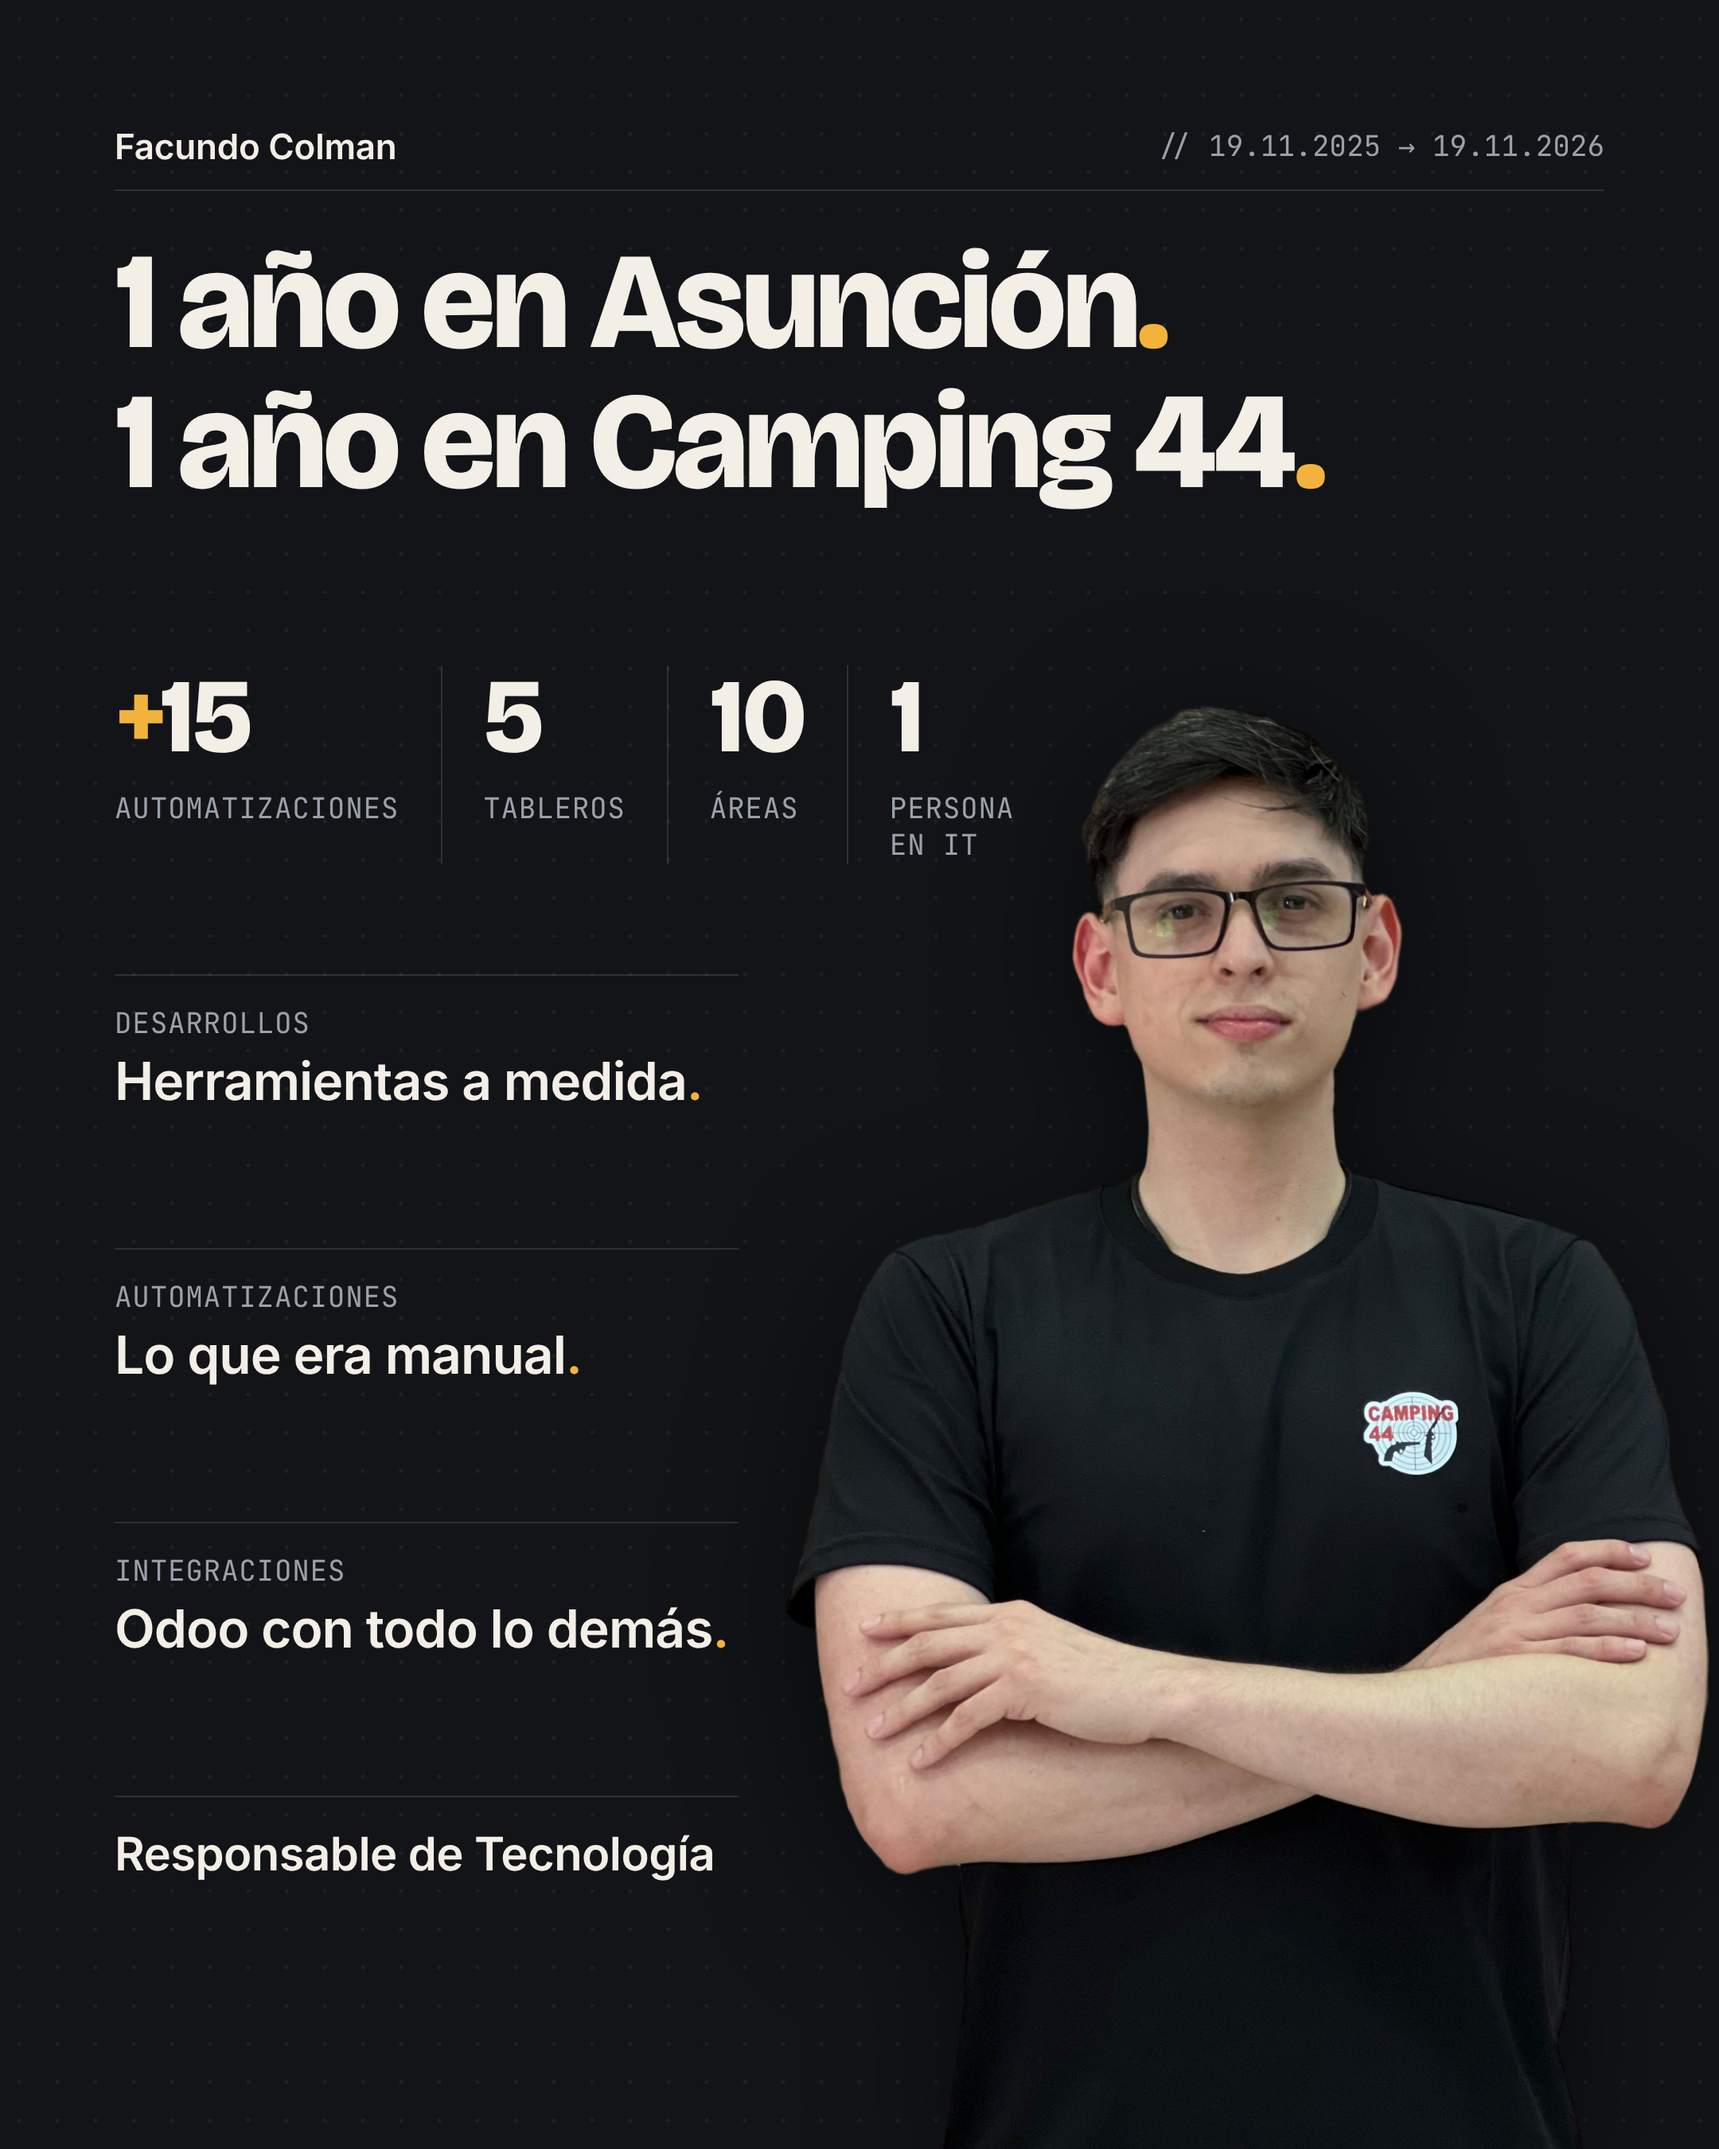
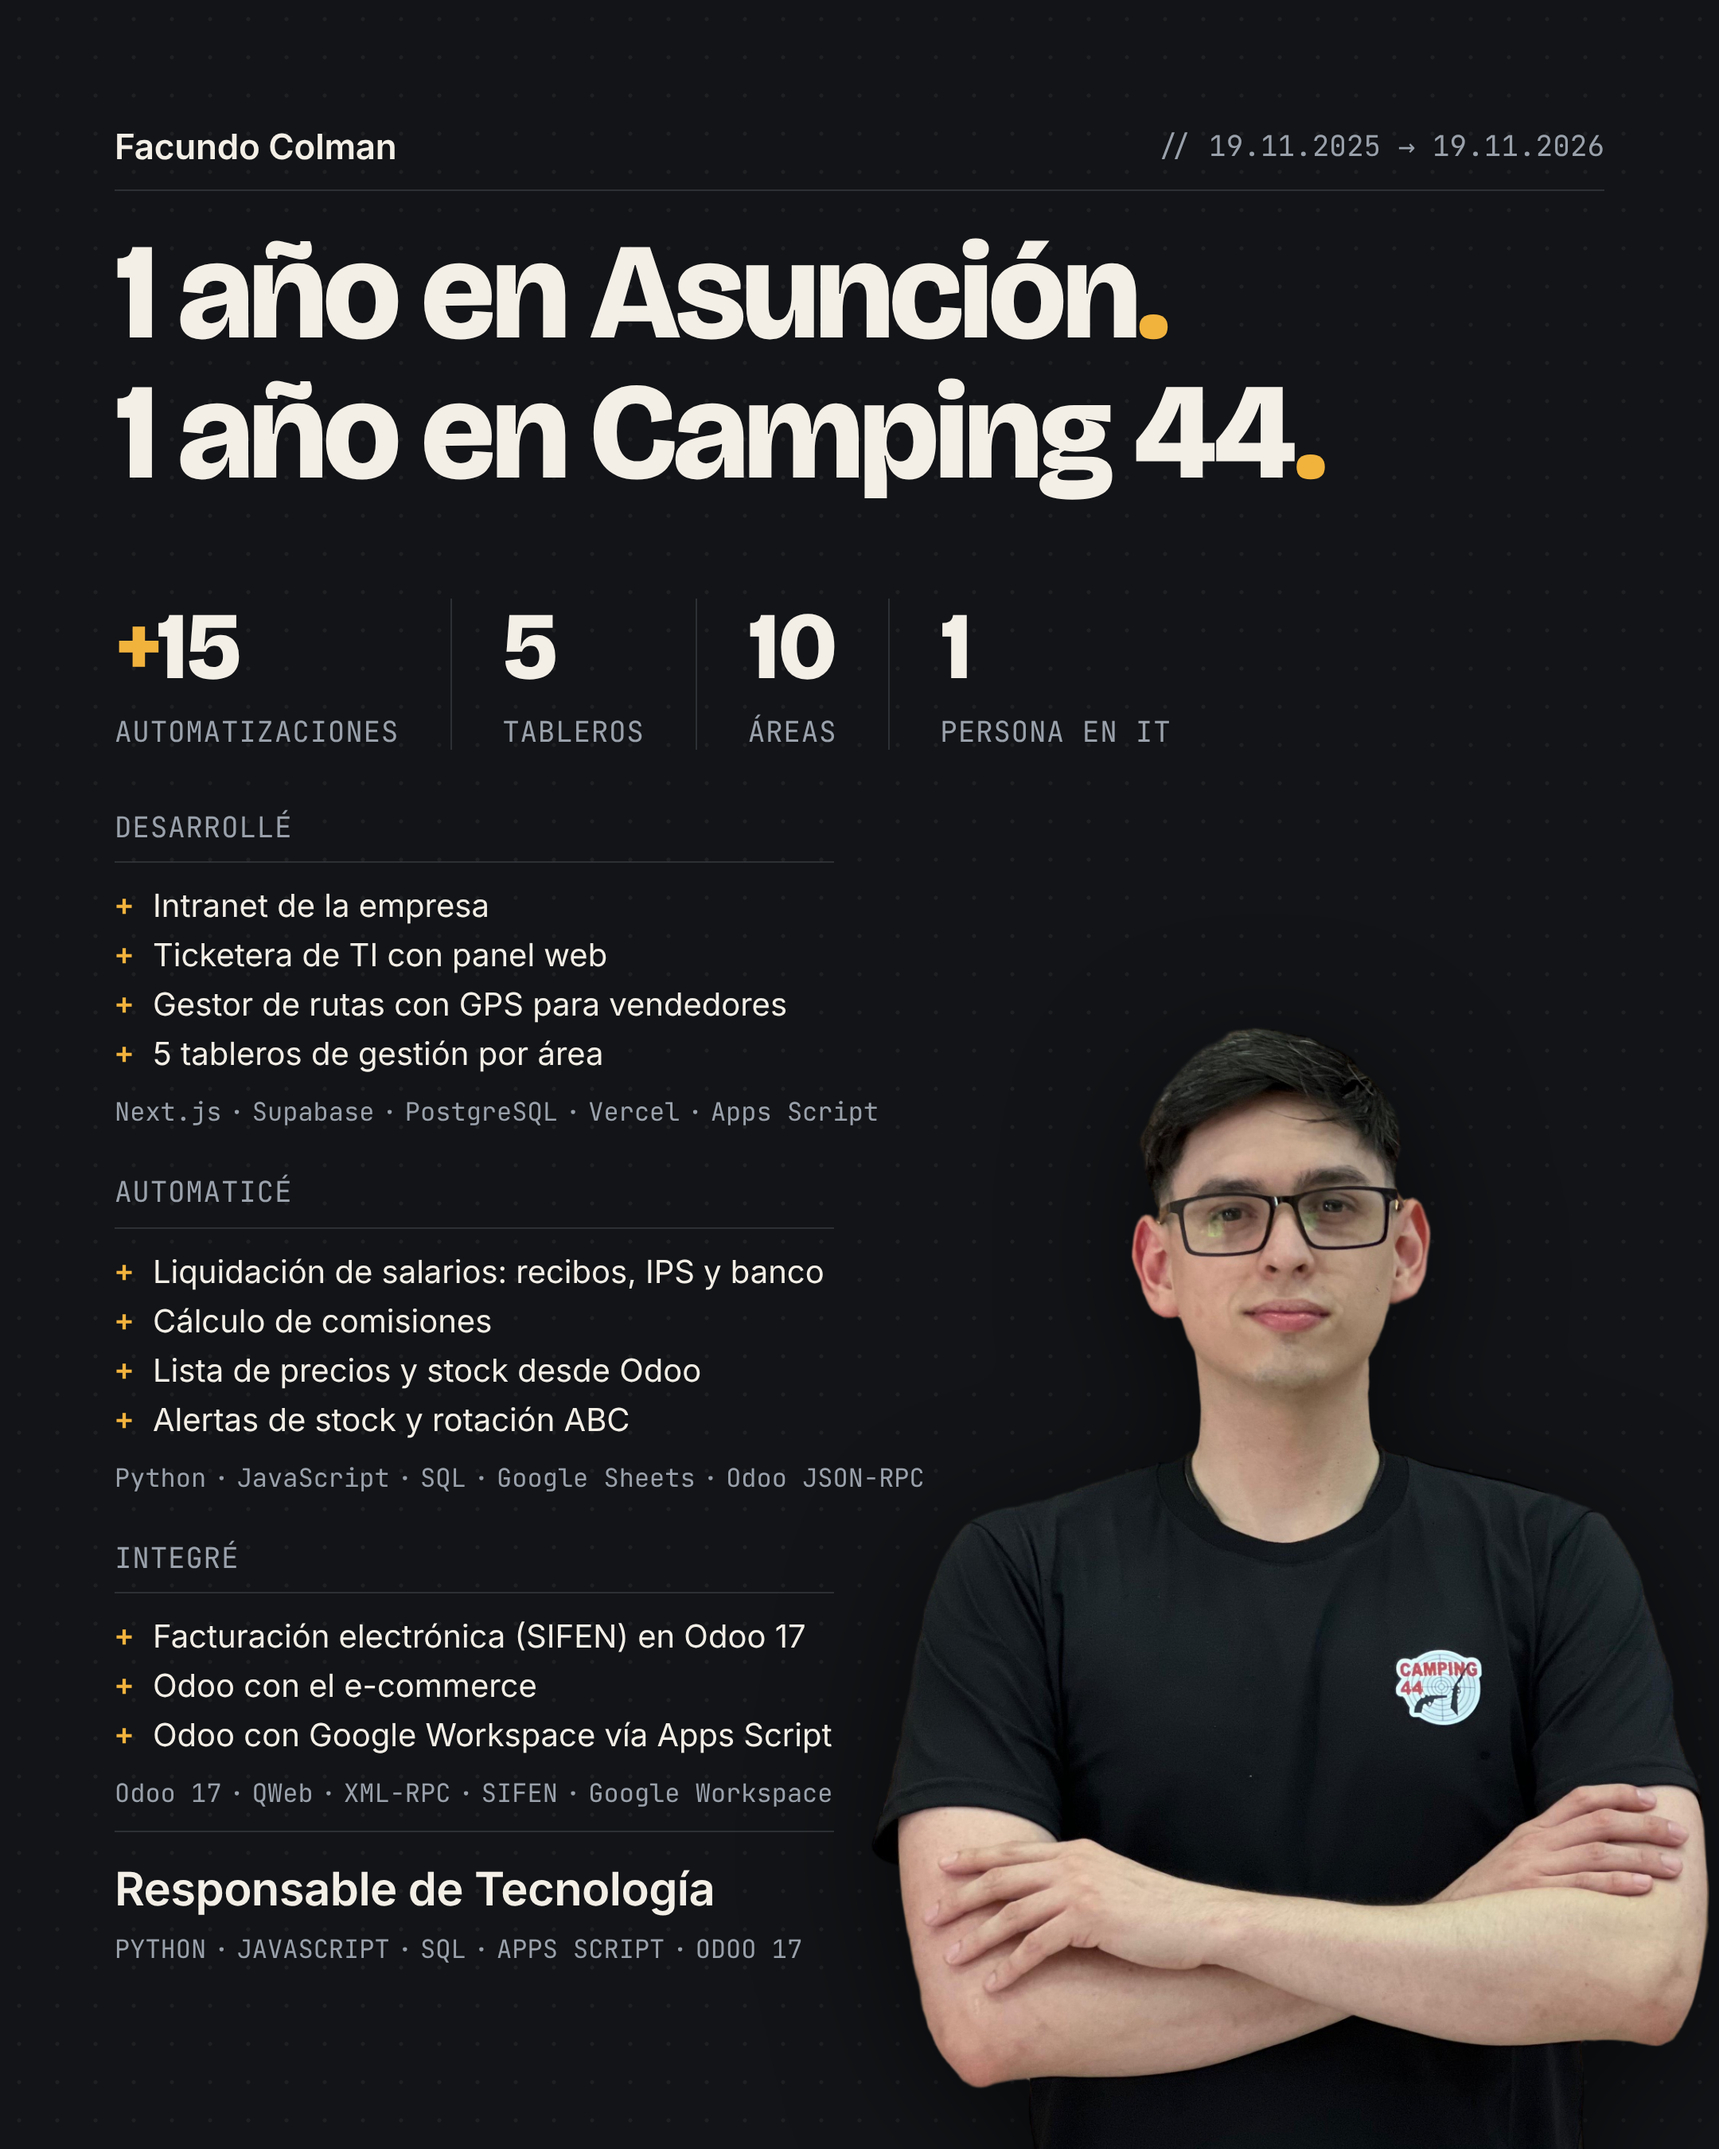
Post LinkedIn: vuelve a la versión detallada, sin la bajada del pie
Claude-Session: https://claude.ai/code/session_01QmKcF7XnkXzDbM9dM3Boey

diff --git a/src/build.js b/src/build.js
@@ -11,21 +11,42 @@ const OUT = path.join(SRC, '..', 'output');
 const C = { ivory: '#F3EEE6', gray: '#9AA1AB', gold: '#F2B33D', bg: '#121417',
             box: 'rgba(154,161,171,0.42)' };
 
-// Tres frases generales: se leen de un vistazo en el feed (el detalle va en el texto del post)
-const STATEMENTS = [
-  ['Desarrollos', 'Herramientas a medida'],
-  ['Automatizaciones', 'Lo que era manual'],
-  ['Integraciones', 'Odoo con todo lo demás'],
+const GROUPS = [
+  ['Desarrollé', ['Next.js', 'Supabase', 'PostgreSQL', 'Vercel', 'Apps Script'], [
+    'Intranet de la empresa',
+    'Ticketera de TI con panel web',
+    'Gestor de rutas con GPS para vendedores',
+    '5 tableros de gestión por área',
+  ]],
+  ['Automaticé', ['Python', 'JavaScript', 'SQL', 'Google Sheets', 'Odoo JSON-RPC'], [
+    'Liquidación de salarios: recibos, IPS y banco',
+    'Cálculo de comisiones',
+    'Lista de precios y stock desde Odoo',
+    'Alertas de stock y rotación ABC',
+  ]],
+  ['Integré', ['Odoo 17', 'QWeb', 'XML-RPC', 'SIFEN', 'Google Workspace'], [
+    'Facturación electrónica (SIFEN) en Odoo 17',
+    'Odoo con el e-commerce',
+    'Odoo con Google Workspace vía Apps Script',
+  ]],
 ];
 
 // Posiciones verticales (px CSS) de cada bloque
-const L = { stats: 418, statements: 612, footer: 1128 };
+const FOOTER_TECH = ['PYTHON', 'JAVASCRIPT', 'SQL', 'APPS SCRIPT', 'ODOO 17'];
+
+const L = { stats: 376, groups: 508, footer: 1150 };
+
+// Línea de tecnologías: palabras separadas por " · "
+const tech = words => `<div class="tech">${words.join('<span class="sep"> · </span>')}</div>`;
 
 function page() {
-  const statements = STATEMENTS.map(([verb, text]) => `
-    <div class="statement">
-      <div class="label">${verb}</div>
-      <div class="phrase">${text}<span class="dot">.</span></div>
+  const groups = GROUPS.map(([title, stack, items]) => `
+    <div class="group">
+      <div class="section-head"><span class="label">${title}</span></div>
+      <ul class="notes">
+        ${items.map(t => `<li><span class="plus">+</span>${t}</li>`).join('\n        ')}
+      </ul>
+      ${tech(stack)}
     </div>`).join('');
   return `<!doctype html>
 <html lang="es">
@@ -53,14 +74,15 @@ function page() {
     <div class="stat"><div class="num"><span class="dot">+</span>15</div><div class="label">Automatizaciones</div></div>
     <div class="stat"><div class="num">5</div><div class="label">Tableros</div></div>
     <div class="stat"><div class="num">10</div><div class="label">Áreas</div></div>
-    <div class="stat"><div class="num">1</div><div class="label">Persona<br>en IT</div></div>
+    <div class="stat"><div class="num">1</div><div class="label">Persona en IT</div></div>
   </section>
 
-  <section class="content statements" style="top:${L.statements}px">${statements}
+  <section class="content groups" style="top:${L.groups}px">${groups}
   </section>
 
   <footer class="footer" style="top:${L.footer}px">
     <div class="role">Responsable de Tecnología</div>
+    ${tech(FOOTER_TECH)}
   </footer>
 
 </main>
@@ -87,11 +109,11 @@ function page() {
   // --- Verificación: aire entre cada texto/caja y la silueta de la foto ---
   const info = await p.evaluate(() => {
     const img = document.querySelector('.photo').getBoundingClientRect();
-    const els = [...document.querySelectorAll('.content .num, .content .label, .phrase, .statement, .footer .role, .footer .tag, .footer')];
+    const els = [...document.querySelectorAll('.content .num, .content .label, .notes li, .tech, .section-head, .footer .role, .footer .tag, .footer')];
     const boxes = els.map(e => {
       let r = e.getBoundingClientRect();
       // para bloques de texto, medir el ancho real del texto (no el del contenedor)
-      if (e.classList.contains('phrase') || e.classList.contains('role') || e.classList.contains('tag')) {
+      if (e.tagName === 'LI' || e.classList.contains('role') || e.classList.contains('tag') || e.classList.contains('tech')) {
         const range = document.createRange(); range.selectNodeContents(e); r = range.getBoundingClientRect();
       }
       return { name: (e.textContent || e.tagName).trim().slice(0, 40) || e.tagName, x0: r.left, x1: r.right, y0: r.top, y1: r.bottom };

diff --git a/src/styles.css b/src/styles.css
@@ -7,7 +7,7 @@
   --rule: rgba(154, 161, 171, 0.20);   /* divisorias: gris al 20% */
   --box: rgba(154, 161, 171, 0.42);    /* bordes de cajas y conectores */
   --margin: 72px;
-  --col: 392px;                         /* columna de contenido: 72 → 464 */
+  --col: 452px;                         /* columna de contenido: 72 → 524 */
 }
 
 * { box-sizing: border-box; margin: 0; padding: 0; }
@@ -43,7 +43,7 @@ html, body { width: 1080px; height: 1350px; background: var(--bg); }
 /* ---------- Título ---------- */
 .title {
   position: absolute;
-  top: 146px; left: var(--margin);
+  top: 140px; left: var(--margin);
   font-family: "Bricolage Grotesque", sans-serif;
   font-weight: 800;
   font-size: 86px;
@@ -57,8 +57,8 @@ html, body { width: 1080px; height: 1350px; background: var(--bg); }
 /* ---------- Foto ---------- */
 .photo {
   position: absolute;
-  right: 6px; bottom: 0;              /* codos completos dentro del cuadro */
-  width: 581px;                        /* grande: cabeza a la altura de la fila de números */
+  right: 6px; bottom: -118px;         /* mismo tamaño; corre hacia abajo para dejar aire a las líneas técnicas (codos siguen dentro) */
+  width: 527px;                        /* máximo que deja ~30 px de aire con los ítems más largos */
   height: auto;
   filter: drop-shadow(0 18px 40px rgba(0, 0, 0, 0.55));
 }
@@ -81,35 +81,54 @@ html, body { width: 1080px; height: 1350px; background: var(--bg); }
 
 /* Datos */
 .stats { display: grid; grid-template-columns: repeat(4, auto); justify-content: start; width: auto; }
-.stat { padding: 0 26px; border-left: 1px solid var(--rule); }
+.stat { padding: 0 32px; border-left: 1px solid var(--rule); }
 .stat .label { white-space: nowrap; }
 .stat:first-child { padding-left: 0; border-left: 0; }
 .stat .num .dot { color: var(--gold); }
 .stat .num {
   font-family: "Bricolage Grotesque", sans-serif;
   font-weight: 800;
-  font-size: 66px;
+  font-size: 60px;
   line-height: 1;
   letter-spacing: -0.02em;
   color: var(--ivory);
   margin-bottom: 12px;
 }
 
-/* Frases: verbo en mono + frase corta grande */
-.statements { display: flex; flex-direction: column; gap: 84px; }
-.statement { padding-top: 18px; border-top: 1px solid var(--rule); }
-.phrase {
-  margin-top: 6px;
-  font-weight: 600;
-  font-size: 33px;
-  line-height: 1.2;
-  letter-spacing: -0.015em;
+.section-head {
+  display: flex; justify-content: space-between; align-items: baseline;
+  padding-bottom: 10px;
+  border-bottom: 1px solid var(--rule);
+  margin-bottom: 12px;
+}
+
+/* Grupos: Desarrollé / Automaticé / Integré */
+.groups { display: flex; flex-direction: column; gap: 28px; }
+.notes { list-style: none; }
+.notes li {
+  display: flex; align-items: baseline;
+  font-size: 20px; line-height: 31px; font-weight: 400;
   color: var(--ivory);
   white-space: nowrap;
 }
-.phrase .dot { color: var(--gold); }
+.notes .plus {
+  flex: 0 0 24px;
+  font-family: "JetBrains Mono", monospace; font-weight: 500;
+  color: var(--gold);
+}
 
 /* Pie */
 .footer { position: absolute; left: var(--margin); width: var(--col); padding-top: 18px; border-top: 1px solid var(--rule); }
 .footer .role { font-weight: 600; font-size: 29px; letter-spacing: -0.01em; color: var(--ivory); }
 .footer .tag { margin-top: 4px; font-weight: 400; font-size: 20px; color: var(--gray); }
+
+/* Línea técnica: detalle, no protagonista */
+.tech {
+  margin-top: 10px;
+  font-family: "JetBrains Mono", monospace;
+  font-size: 16px; line-height: 21px;
+  color: var(--gray);
+  white-space: nowrap;
+}
+.footer .tech { margin-top: 10px; }
+.tech .sep { word-spacing: -0.3em; } /* espacios de " · " un poco más angostos que la celda mono completa */

diff --git a/src/post.html b/src/post.html
@@ -20,30 +20,48 @@
 
   <img class="photo" src="foto_recorte.png" alt="Facundo Colman">
 
-  <section class="content stats" style="top:418px">
+  <section class="content stats" style="top:376px">
     <div class="stat"><div class="num"><span class="dot">+</span>15</div><div class="label">Automatizaciones</div></div>
     <div class="stat"><div class="num">5</div><div class="label">Tableros</div></div>
     <div class="stat"><div class="num">10</div><div class="label">Áreas</div></div>
-    <div class="stat"><div class="num">1</div><div class="label">Persona<br>en IT</div></div>
+    <div class="stat"><div class="num">1</div><div class="label">Persona en IT</div></div>
   </section>
 
-  <section class="content statements" style="top:612px">
-    <div class="statement">
-      <div class="label">Desarrollos</div>
-      <div class="phrase">Herramientas a medida<span class="dot">.</span></div>
+  <section class="content groups" style="top:508px">
+    <div class="group">
+      <div class="section-head"><span class="label">Desarrollé</span></div>
+      <ul class="notes">
+        <li><span class="plus">+</span>Intranet de la empresa</li>
+        <li><span class="plus">+</span>Ticketera de TI con panel web</li>
+        <li><span class="plus">+</span>Gestor de rutas con GPS para vendedores</li>
+        <li><span class="plus">+</span>5 tableros de gestión por área</li>
+      </ul>
+      <div class="tech">Next.js<span class="sep"> · </span>Supabase<span class="sep"> · </span>PostgreSQL<span class="sep"> · </span>Vercel<span class="sep"> · </span>Apps Script</div>
     </div>
-    <div class="statement">
-      <div class="label">Automatizaciones</div>
-      <div class="phrase">Lo que era manual<span class="dot">.</span></div>
+    <div class="group">
+      <div class="section-head"><span class="label">Automaticé</span></div>
+      <ul class="notes">
+        <li><span class="plus">+</span>Liquidación de salarios: recibos, IPS y banco</li>
+        <li><span class="plus">+</span>Cálculo de comisiones</li>
+        <li><span class="plus">+</span>Lista de precios y stock desde Odoo</li>
+        <li><span class="plus">+</span>Alertas de stock y rotación ABC</li>
+      </ul>
+      <div class="tech">Python<span class="sep"> · </span>JavaScript<span class="sep"> · </span>SQL<span class="sep"> · </span>Google Sheets<span class="sep"> · </span>Odoo JSON-RPC</div>
     </div>
-    <div class="statement">
-      <div class="label">Integraciones</div>
-      <div class="phrase">Odoo con todo lo demás<span class="dot">.</span></div>
+    <div class="group">
+      <div class="section-head"><span class="label">Integré</span></div>
+      <ul class="notes">
+        <li><span class="plus">+</span>Facturación electrónica (SIFEN) en Odoo 17</li>
+        <li><span class="plus">+</span>Odoo con el e-commerce</li>
+        <li><span class="plus">+</span>Odoo con Google Workspace vía Apps Script</li>
+      </ul>
+      <div class="tech">Odoo 17<span class="sep"> · </span>QWeb<span class="sep"> · </span>XML-RPC<span class="sep"> · </span>SIFEN<span class="sep"> · </span>Google Workspace</div>
     </div>
   </section>
 
-  <footer class="footer" style="top:1128px">
+  <footer class="footer" style="top:1150px">
     <div class="role">Responsable de Tecnología</div>
+    <div class="tech">PYTHON<span class="sep"> · </span>JAVASCRIPT<span class="sep"> · </span>SQL<span class="sep"> · </span>APPS SCRIPT<span class="sep"> · </span>ODOO 17</div>
   </footer>
 
 </main>
